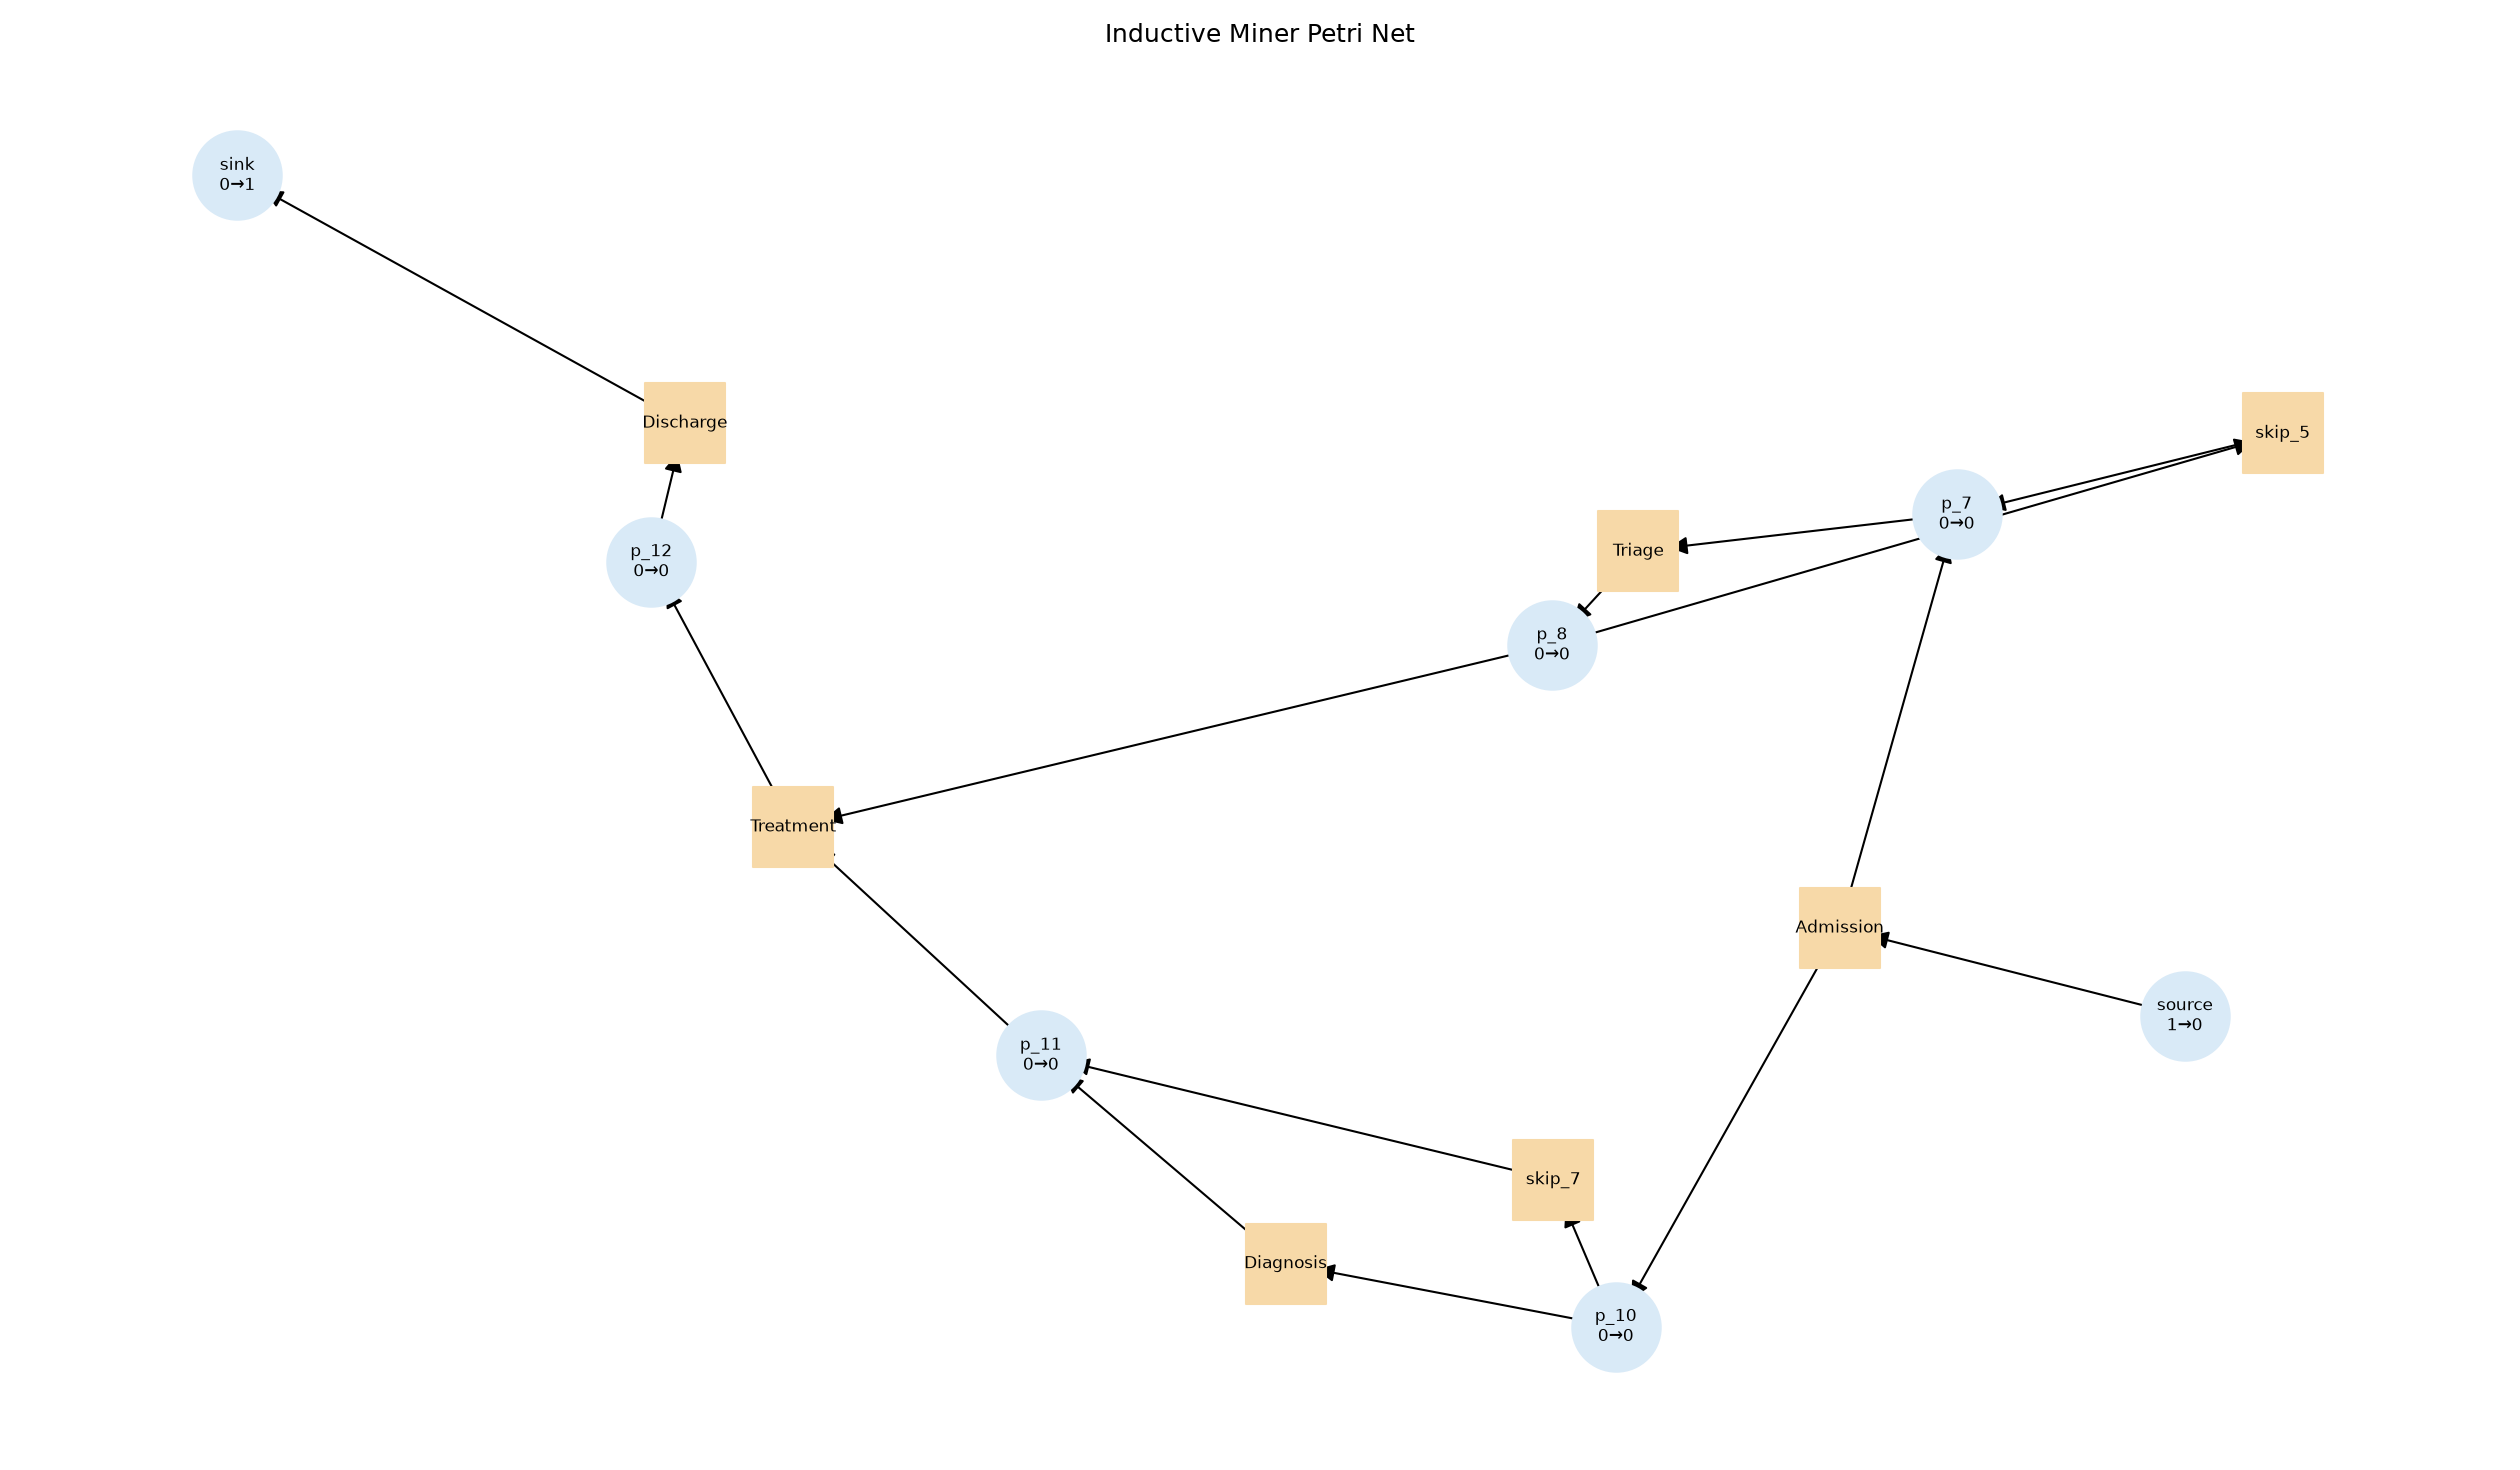
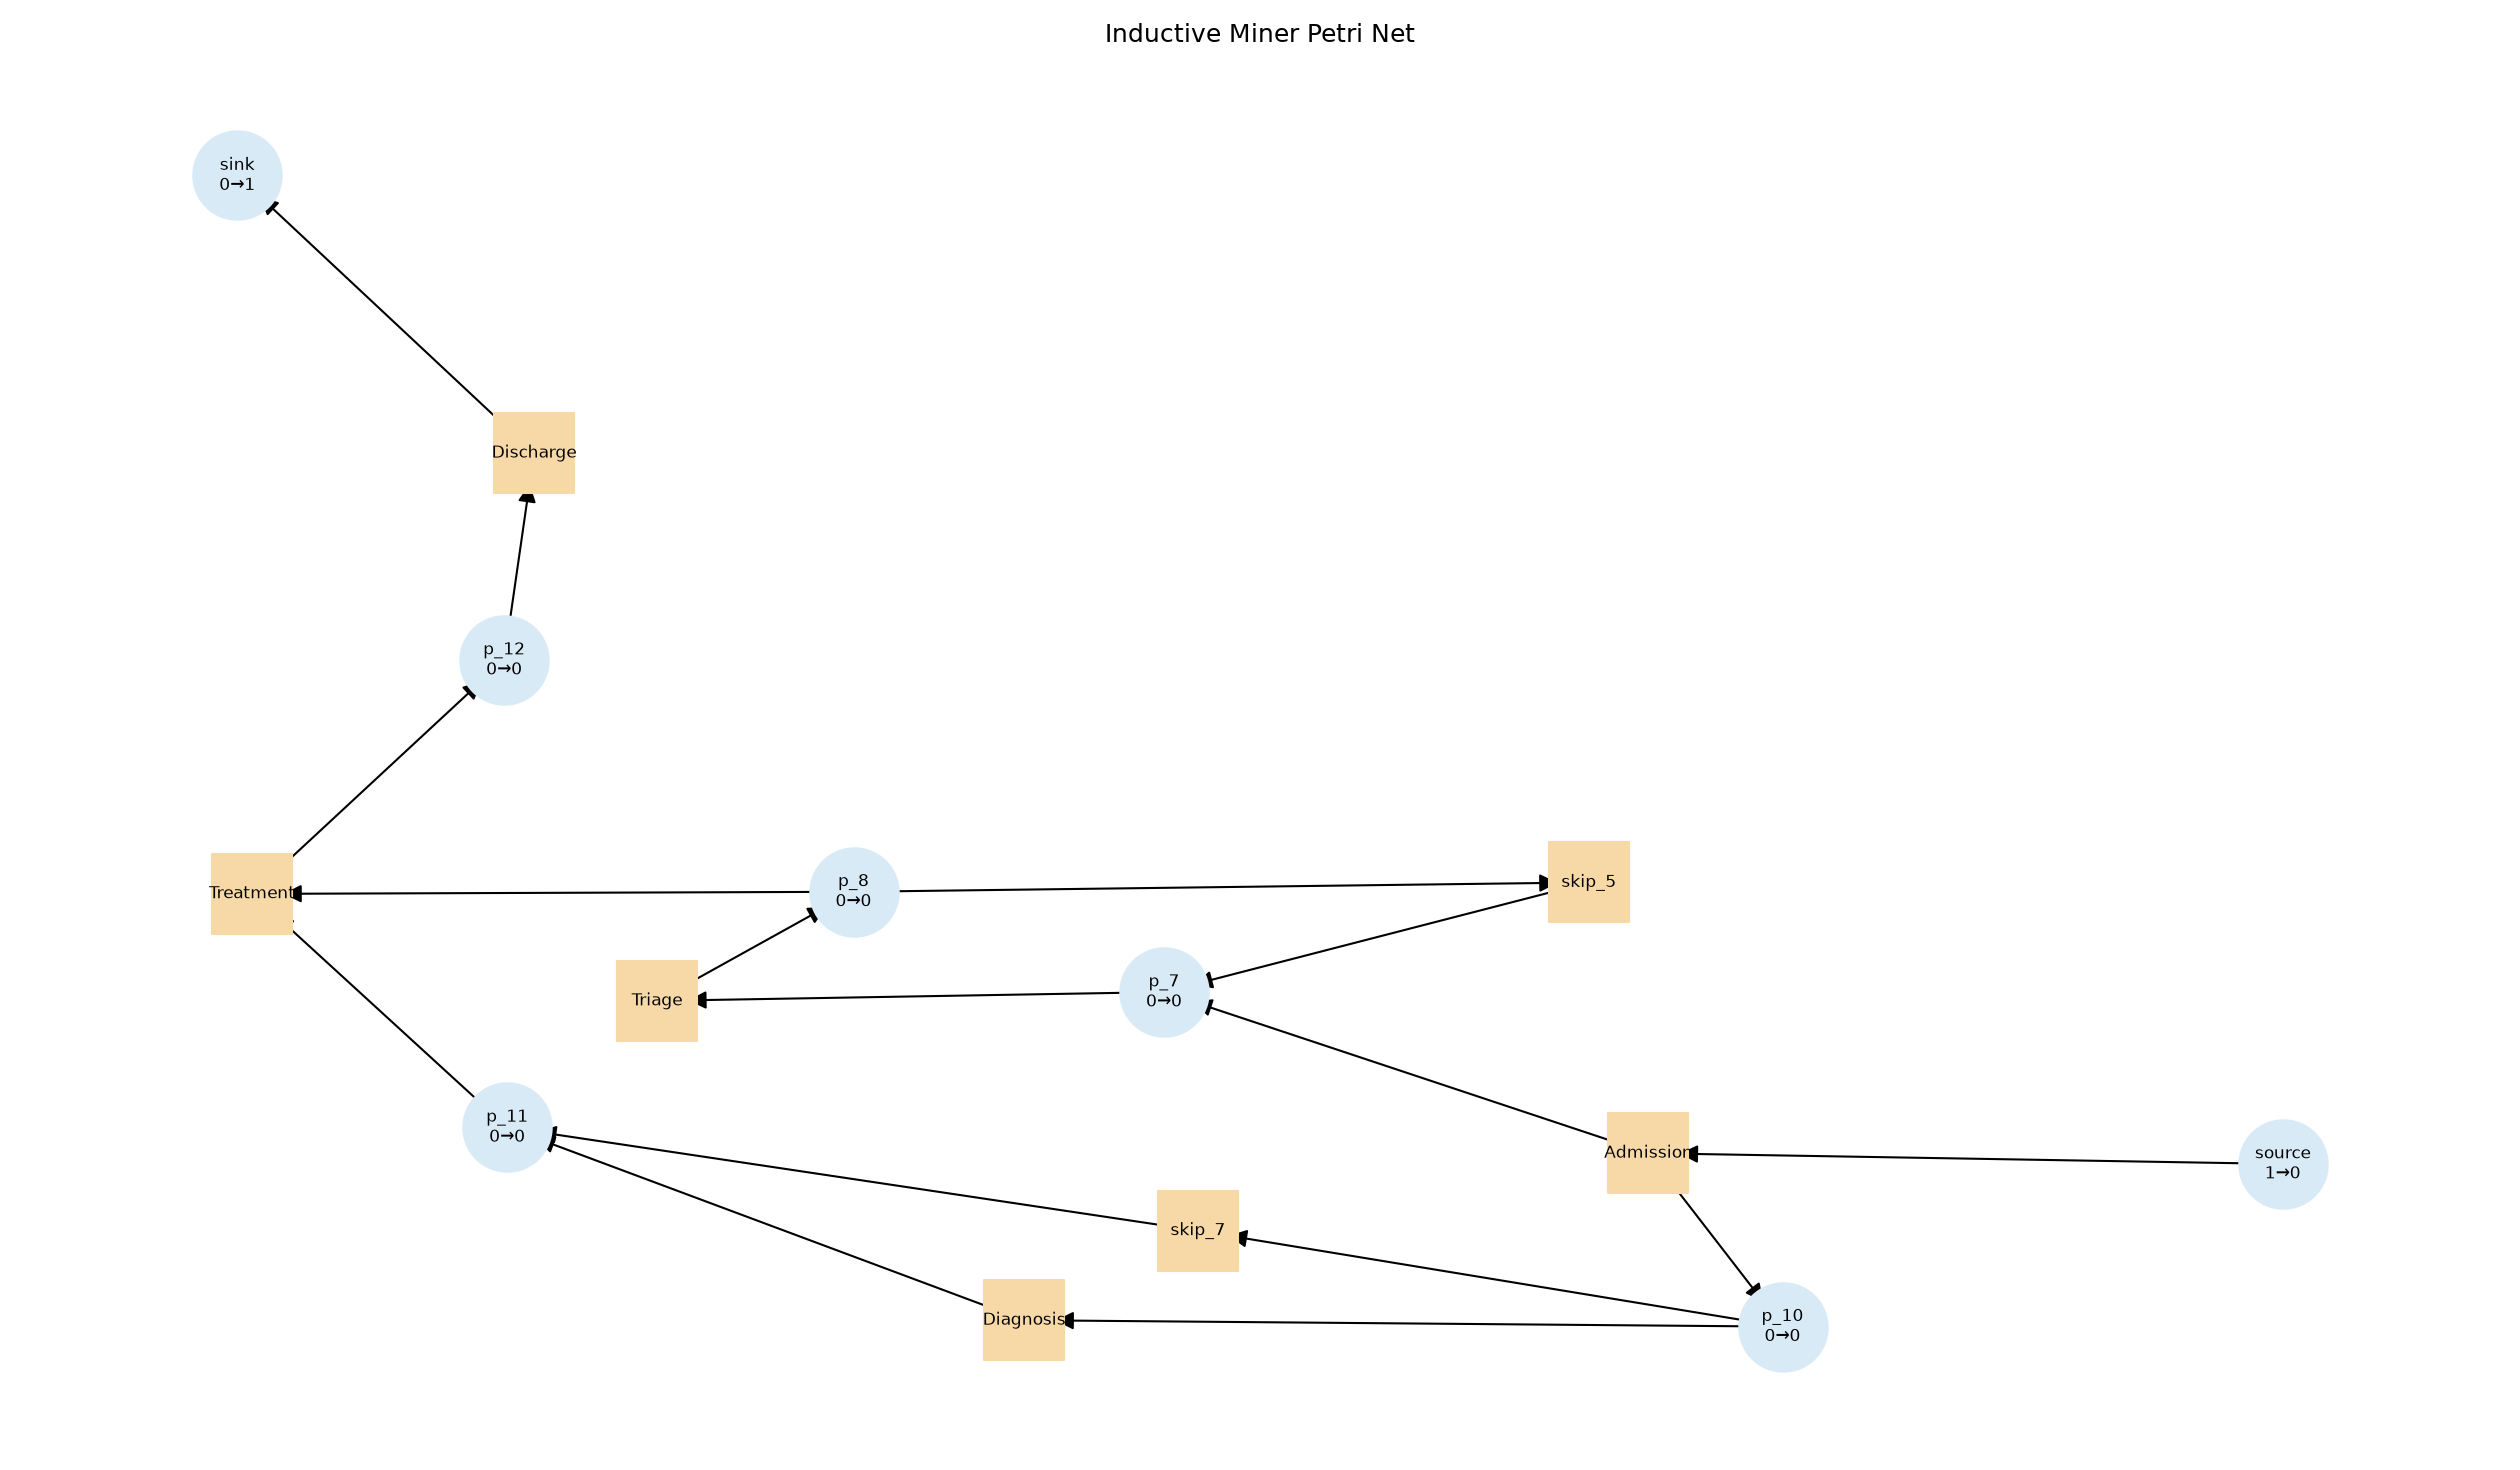
Add PM4Py process discovery (DFG and Petri net)

diff --git a/process_mining/process_discovery.py b/process_mining/process_discovery.py
@@ -1,5 +1,6 @@
 """Discover a directly-follows graph and Petri net from a patient event log."""
 
+import argparse
 from pathlib import Path
 
 import matplotlib
@@ -10,6 +11,14 @@ from pm4py.objects.log.obj import EventLog
 
 
 REQUIRED_COLUMNS = ("case_id", "activity", "timestamp")
+SUMMARY_COLUMNS = (
+    "cases",
+    "events",
+    "activities",
+    "variants",
+    "average_case_duration_hours",
+    "max_case_duration_hours",
+)
 
 
 def _pyplot():
@@ -154,7 +163,10 @@ def save_petri_net_image(
 
 def read_event_log(input_path: Path) -> tuple[pd.DataFrame, EventLog]:
     """Read, validate, order, and convert a CSV event log to PM4Py."""
-    dataframe = pd.read_csv(input_path)
+    try:
+        dataframe = pd.read_csv(input_path)
+    except (OSError, pd.errors.ParserError, UnicodeDecodeError) as error:
+        raise ValueError(f"Could not read event-log CSV '{input_path}': {error}") from error
     missing = [column for column in REQUIRED_COLUMNS if column not in dataframe]
     if missing:
         raise ValueError(
@@ -169,18 +181,29 @@ def read_event_log(input_path: Path) -> tuple[pd.DataFrame, EventLog]:
         if invalid.any():
             raise ValueError(f"Event log contains an empty {column} value")
 
-    missing_timestamps = dataframe["timestamp"].isna() | dataframe[
-        "timestamp"
-    ].astype("string").str.strip().eq("")
-    if missing_timestamps.any():
-        raise ValueError("Event log contains an empty timestamp value")
-
-    dataframe["timestamp"] = pd.to_datetime(
-        dataframe["timestamp"], utc=True, errors="raise"
+    raw_timestamps = dataframe["timestamp"]
+    parsed_timestamps = pd.to_datetime(
+        raw_timestamps, utc=True, errors="coerce"
     )
-    dataframe = dataframe.sort_values("timestamp", kind="stable").reset_index(
-        drop=True
-    )
+    invalid_timestamps = parsed_timestamps.isna()
+    if invalid_timestamps.any():
+        bad_rows = []
+        for index in dataframe.index[invalid_timestamps]:
+            source_row = int(index) + 2
+            value = raw_timestamps.loc[index]
+            reason = "empty" if pd.isna(value) or not str(value).strip() else "invalid"
+            bad_rows.append(f"row {source_row} ({reason}: {value!r})")
+        details = "; ".join(bad_rows)
+        raise ValueError(
+            f"Invalid timestamp value(s) in event log: {details}. "
+            "Rows are numbered as they appear in the CSV, including the header."
+        )
+    dataframe["timestamp"] = parsed_timestamps
+    dataframe["_source_order"] = range(len(dataframe))
+    dataframe = dataframe.sort_values(
+        ["case_id", "timestamp", "activity", "_source_order"],
+        kind="stable",
+    ).drop(columns="_source_order").reset_index(drop=True)
     formatted = pm4py.format_dataframe(
         dataframe,
         case_id="case_id",
@@ -190,12 +213,51 @@ def read_event_log(input_path: Path) -> tuple[pd.DataFrame, EventLog]:
     return formatted, pm4py.convert_to_event_log(formatted)
 
 
+def build_discovery_summary(dataframe: pd.DataFrame, event_log: EventLog) -> pd.DataFrame:
+    """Return one-row case, event, variant, and duration summary metrics."""
+    case_durations = dataframe.groupby("case_id", sort=False)["timestamp"].agg(
+        start="min", end="max"
+    )
+    durations_hours = (
+        case_durations["end"] - case_durations["start"]
+    ).dt.total_seconds() / 3600
+    return pd.DataFrame(
+        [
+            {
+                "cases": int(dataframe["case_id"].nunique()),
+                "events": int(len(dataframe)),
+                "activities": int(dataframe["activity"].nunique()),
+                "variants": int(len(pm4py.get_variants(event_log))),
+                "average_case_duration_hours": float(durations_hours.mean()),
+                "max_case_duration_hours": float(durations_hours.max()),
+            }
+        ],
+        columns=SUMMARY_COLUMNS,
+    )
+
+
 def main() -> None:
     """Discover and save a frequency DFG and an Inductive Miner Petri net."""
     directory = Path(__file__).resolve().parent
+    parser = argparse.ArgumentParser(
+        description="Discover a frequency DFG and Petri net from an event-log CSV."
+    )
+    parser.add_argument(
+        "--input",
+        type=Path,
+        default=directory / "sample_event_log.csv",
+        help="CSV with case_id, activity, and timestamp columns.",
+    )
+    args = parser.parse_args()
+    if not args.input.is_file():
+        parser.error(f"event-log file does not exist: {args.input}")
+
     output_directory = directory / "output"
     output_directory.mkdir(parents=True, exist_ok=True)
-    dataframe, event_log = read_event_log(directory / "sample_event_log.csv")
+    try:
+        dataframe, event_log = read_event_log(args.input)
+    except ValueError as error:
+        parser.error(str(error))
 
     dfg, start_activities, end_activities = pm4py.discover_dfg(event_log)
     dfg_path = output_directory / "dfg.png"
@@ -218,11 +280,24 @@ def main() -> None:
         petri_net_path,
     )
 
-    print(f"Cases: {dataframe['case_id'].nunique()}")
-    print(f"Activities: {dataframe['activity'].nunique()}")
-    print(f"Variants: {len(pm4py.get_variants(event_log))}")
+    summary_path = output_directory / "discovery_summary.csv"
+    summary = build_discovery_summary(dataframe, event_log)
+    summary.to_csv(summary_path, index=False)
+    print(f"Cases: {summary.loc[0, 'cases']}")
+    print(f"Events: {summary.loc[0, 'events']}")
+    print(f"Activities: {summary.loc[0, 'activities']}")
+    print(f"Variants: {summary.loc[0, 'variants']}")
+    print(
+        "Average case duration: "
+        f"{summary.loc[0, 'average_case_duration_hours']:.2f} hours"
+    )
+    print(
+        "Maximum case duration: "
+        f"{summary.loc[0, 'max_case_duration_hours']:.2f} hours"
+    )
     print(f"DFG saved to: {dfg_path}")
     print(f"Petri net saved to: {petri_net_path}")
+    print(f"Discovery summary saved to: {summary_path}")
 
 
 if __name__ == "__main__":
